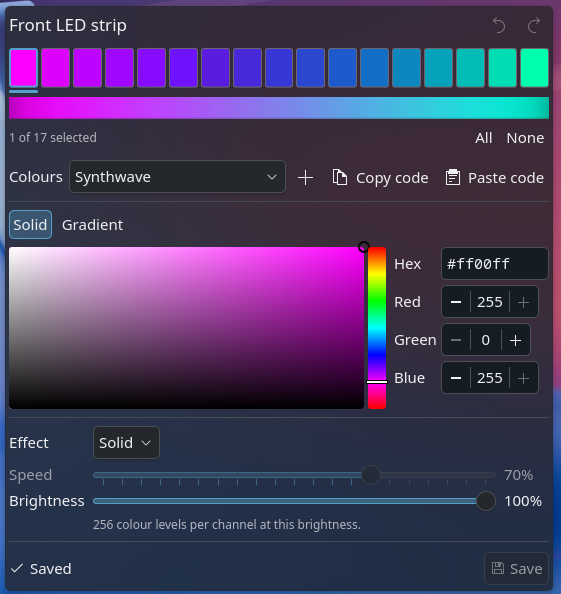
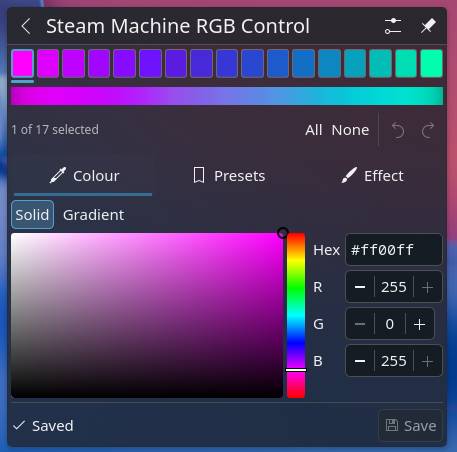
Screenshots of the 1.0.1 tray layout

diff --git a/README.md b/README.md
@@ -6,8 +6,10 @@ Changes show on the strip immediately; **Save** makes them permanent (Desktop an
 > Status: version 1.0.1. This README is also the working spec.
 
 <p>
-  <img src="docs/screenshots/editor.png" alt="The editor showing the Synthwave design" width="420">
-  <img src="docs/screenshots/gradient.png" alt="A gradient applied to seven selected LEDs" width="420">
+  <img src="docs/screenshots/editor.png" alt="The Colour tab with one LED selected, showing the Synthwave design" width="400">
+  <img src="docs/screenshots/gradient.png" alt="A gradient from yellow to magenta across seven LEDs" width="400">
+  <img src="docs/screenshots/presets.png" alt="The Presets tab with share codes" width="400">
+  <img src="docs/screenshots/effects.png" alt="The Effect tab with the effect list open" width="400">
 </p>
 
 ## Install

diff --git a/docs/store-listing.md b/docs/store-listing.md
@@ -68,4 +68,4 @@ First release.
 - **Source / homepage link:** https://github.com/tharrison4815/steam-machine-rgb-control
 - **File:** `dist/steam-machine-rgb-control-1.0.1.plasmoid` (build with `python3 tools/build-plasmoid.py`)
 - **Version:** 1.0.1
-- **Screenshots:** `docs/screenshots/editor.png` (main image), then `docs/screenshots/gradient.png`
+- **Screenshots** (in this order): `docs/screenshots/editor.png` (main image), `gradient.png`, `presets.png`, `effects.png`
